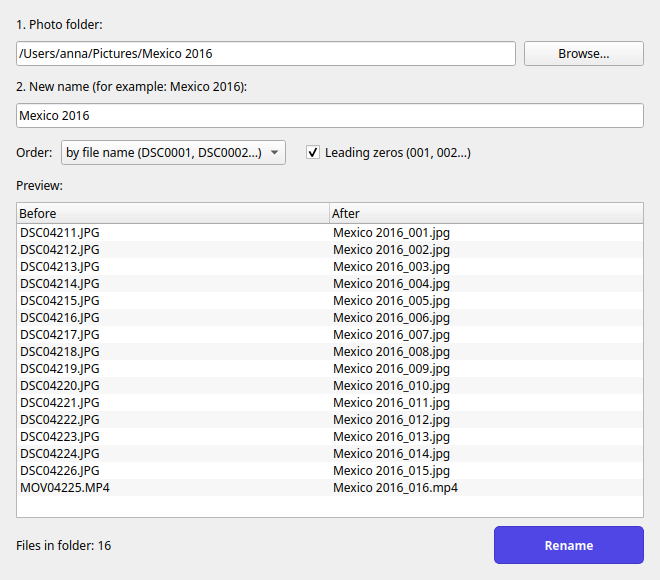
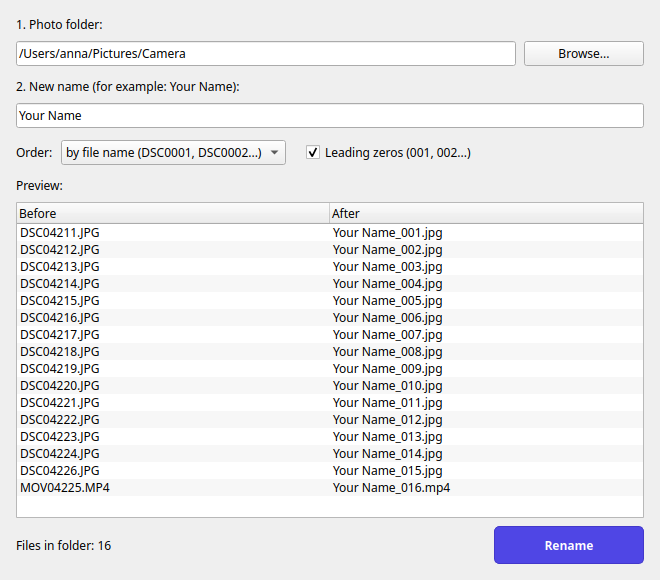
Use neutral example name "Your Name", release 1.0.1
Replace the "Mexico 2016" example in the app, docs, screenshot and
package description. Update GitHub Actions to current major versions.

Changed region(s): [[0.4848, 0.3724, 0.697, 0.869], [0.2121, 0.0621, 0.3636, 0.1552], [0.0303, 0.1862, 0.1515, 0.2172]]

diff --git a/tests/test_core.py b/tests/test_core.py
@@ -50,10 +50,10 @@ def test_date_order_prefers_exif(tmp_path):
 
 @pytest.mark.parametrize(
     "pad,total,expected",
-    [(False, 5, "Мексика 2016_3.jpg"), (True, 5, "Мексика 2016_003.jpg"), (True, 1500, "Мексика 2016_0003.jpg")],
+    [(False, 5, "Your Name_3.jpg"), (True, 5, "Your Name_003.jpg"), (True, 1500, "Your Name_0003.jpg")],
 )
 def test_new_name(pad, total, expected):
-    assert core.new_name(" Мексика 2016 ", 3, total, pad, "DSC0003.JPG") == expected
+    assert core.new_name(" Your Name ", 3, total, pad, "DSC0003.JPG") == expected
 
 
 def test_new_name_without_extension():
@@ -61,7 +61,7 @@ def test_new_name_without_extension():
 
 
 @pytest.mark.parametrize("base,err", [("", "err_empty"), ("  ", "err_empty"), ("a/b", "err_chars"),
-                                      ("a:b", "err_chars"), ("trip.", "err_chars"), ("Мексика 2016", None)])
+                                      ("a:b", "err_chars"), ("trip.", "err_chars"), ("Your Name", None)])
 def test_validate(base, err):
     assert core.validate_base(base) == err
 

diff --git a/src/photo_batch_renamer/i18n.py b/src/photo_batch_renamer/i18n.py
@@ -6,7 +6,7 @@ STRINGS = {
     "folder_label": "1. Photo folder:",
     "folder_hint": "Click “Browse...” or drop a folder onto the window",
     "browse": "Browse...",
-    "name_label": "2. New name (for example: Mexico 2016):",
+    "name_label": "2. New name (for example: Your Name):",
     "order": "Order:",
     "sort_name": "by file name (DSC0001, DSC0002...)",
     "sort_date": "by date taken",

diff --git a/src/photo_batch_renamer/__init__.py b/src/photo_batch_renamer/__init__.py
@@ -1,3 +1,3 @@
 """Photo Batch Renamer: rename all photos in a folder to "Name_1", "Name_2", ..."""
 
-__version__ = "1.0.0"
+__version__ = "1.0.1"

diff --git a/README.ru.md b/README.ru.md
@@ -4,7 +4,7 @@
 
 # Photo Batch Renamer
 
-**Переименуйте все фотографии в папке одним нажатием: `DSC0001.JPG` → `Mexico 2016_1.jpg`**
+**Переименуйте фото с камеры из стандартных имён в свои: `DSC0001.JPG` → `Your Name_1.jpg`**
 
 Бесплатная программа для Windows, macOS и Linux. Python и другие программы ставить не нужно.
 
@@ -22,10 +22,10 @@
 ## Зачем
 
 Вы вернулись из поездки, и у вас 500 фотографий с именами `DSC0001.JPG`, `DSC0002.JPG`, `IMG_4711.HEIC`…
-Скопируйте их в папку, откройте Photo Batch Renamer, введите `Mexico 2016`, и каждый файл получит понятное
-имя с номером: `Mexico 2016_1.jpg`, `Mexico 2016_2.jpg`, `Mexico 2016_3.mp4`.
+Скопируйте их в папку, откройте Photo Batch Renamer, введите название, и каждый файл получит понятное
+имя с номером: `Your Name_1.jpg`, `Your Name_2.jpg`, `Your Name_3.mp4`.
 
-Сама программа на английском, но названия можно писать на любом языке, например `Мексика 2016`.
+Сама программа на английском, но названия можно писать на любом языке, в том числе по-русски.
 
 ## Возможности
 
@@ -96,7 +96,7 @@ sudo apt install ./photo-batch-renamer_*_amd64.deb
 ## Как пользоваться
 
 1. Нажмите **Browse…** и выберите папку с фотографиями (или перетащите папку в окно).
-2. Введите новое название, например `Mexico 2016`. Имя папки подставляется само.
+2. Введите новое название, например `Your Name`. Имя папки подставляется само.
 3. Выберите порядок: **by file name** (по имени файла — в том порядке, как снимала камера) или **by date taken** (по дате съёмки).
 4. Проверьте предпросмотр и нажмите **Rename**.
 

diff --git a/README.md b/README.md
@@ -4,7 +4,7 @@
 
 # Photo Batch Renamer
 
-**Rename every photo in a folder in one click: `DSC0001.JPG` → `Mexico 2016_1.jpg`**
+**Rename camera photos from default names to your own: `DSC0001.JPG` → `Your Name_1.jpg`**
 
 Free desktop app for Windows, macOS and Linux. No Python or anything else to install.
 
@@ -22,8 +22,8 @@ Free desktop app for Windows, macOS and Linux. No Python or anything else to ins
 ## Why
 
 You come back from a trip with 500 photos called `DSC0001.JPG`, `DSC0002.JPG`, `IMG_4711.HEIC`…
-Copy them into a folder, open Photo Batch Renamer, type `Mexico 2016` and every file gets a clear,
-numbered name: `Mexico 2016_1.jpg`, `Mexico 2016_2.jpg`, `Mexico 2016_3.mp4`.
+Copy them into a folder, open Photo Batch Renamer, type a name and every file gets a clear,
+numbered name: `Your Name_1.jpg`, `Your Name_2.jpg`, `Your Name_3.mp4`.
 
 ## Features
 
@@ -94,7 +94,7 @@ The app appears in your applications menu. Needed system libraries are installed
 ## How to use
 
 1. Click **Browse…** and choose the folder with your photos (or drop the folder onto the window).
-2. Type the new name, for example `Mexico 2016`. The folder name is filled in for you.
+2. Type the new name, for example `Your Name`. The folder name is filled in for you.
 3. Choose the order: **by file name** (the order your camera took them) or **by date taken**.
 4. Check the preview and click **Rename**.
 

diff --git a/CHANGELOG.md b/CHANGELOG.md
@@ -1,5 +1,10 @@
 # Changelog
 
+## 1.0.1 (2026-10-22)
+
+- Neutral example name in the app and docs ("Your Name")
+- Build pipeline updated to current GitHub Actions versions
+
 ## 1.0.0 (2026-10-22)
 
 First release.
